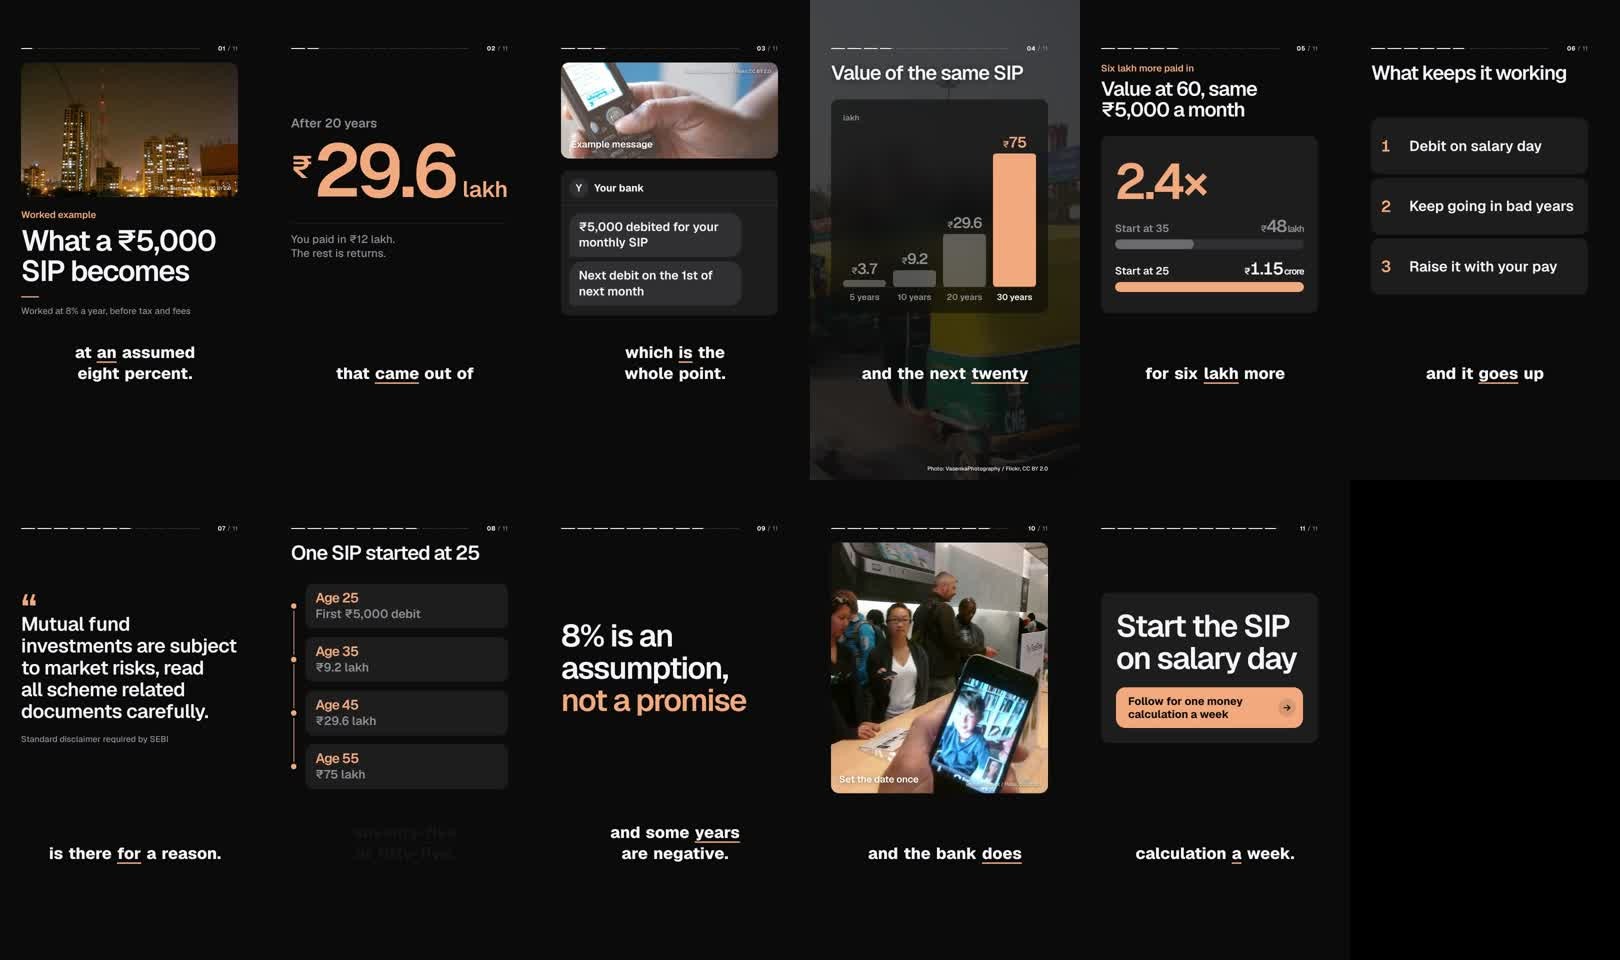
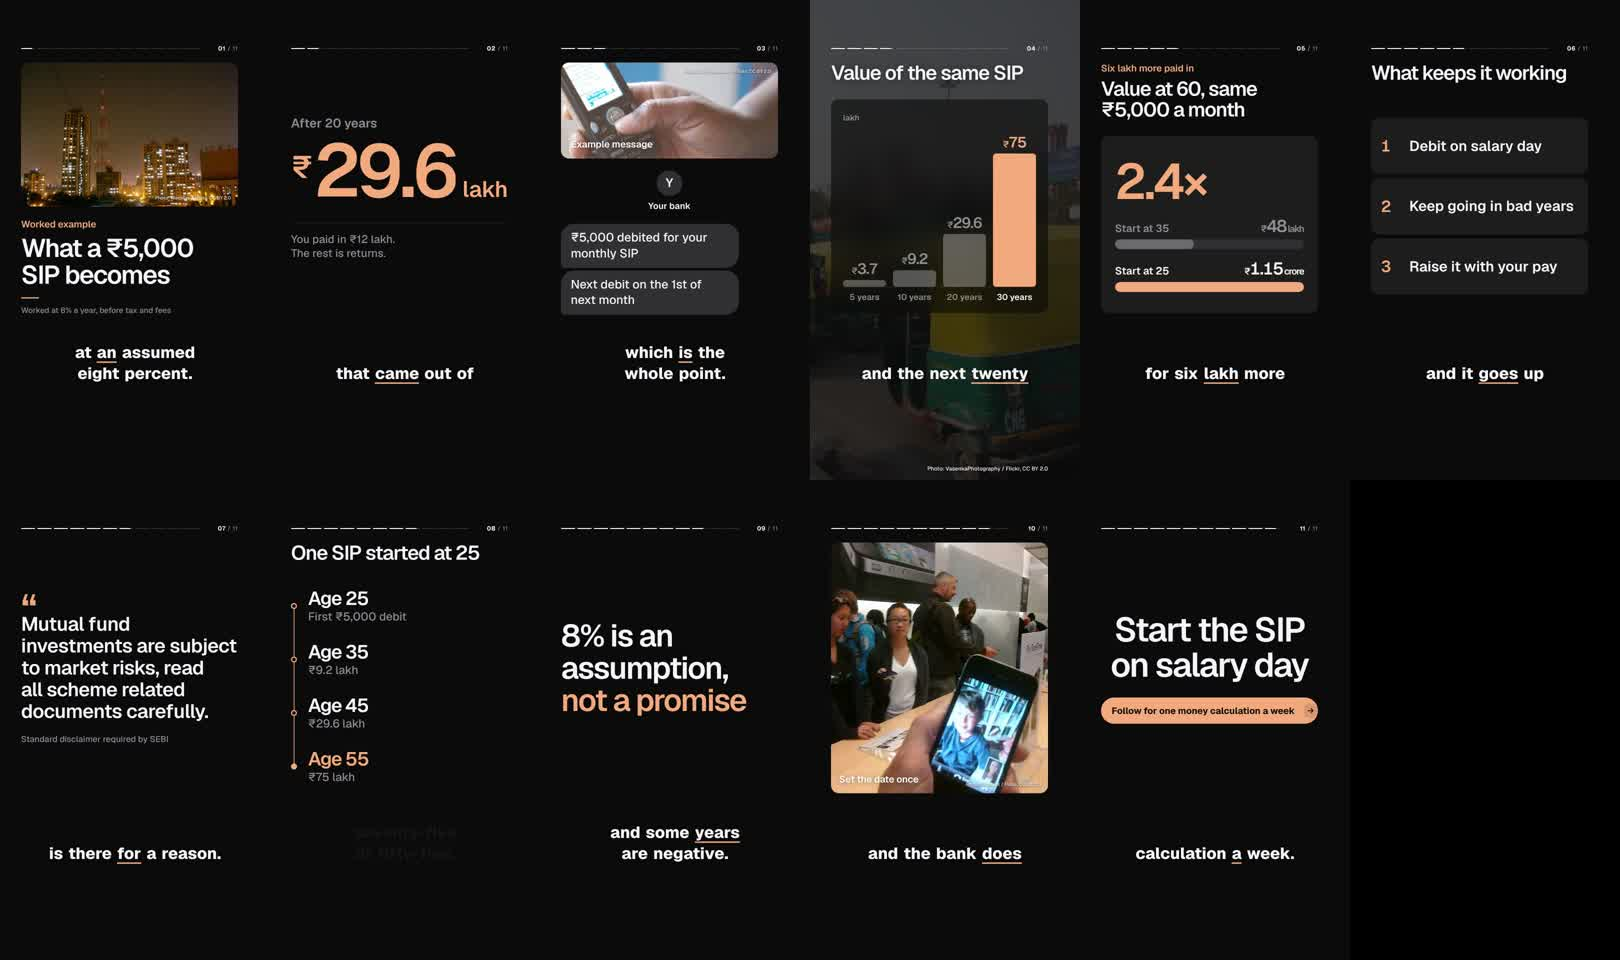
Let type carry the message, timeline and end scenes
- message: a chat screen straight on the background, the sender's initial
  and name centred above the bubbles; consecutive bubbles from one side sit
  closer together
- timeline: dates set as display type on a rail that draws through hollow
  dots; the last date and dot take the accent
- end: a centred finale with a larger title and a one-line call to action
- title photos get a little more height
- docs show the type-led scenes

Claude-Session: https://claude.ai/code/session_015iGsKUNTqUMX6rbhQzKvLn

diff --git a/skills/vid-studio/assets/scenes/engine.css b/skills/vid-studio/assets/scenes/engine.css
@@ -425,36 +425,39 @@
 .vid-stage.cards .scene-quote .quote-text { font-size: calc(var(--k) * var(--kw, 1) * var(--ts) * 78px); line-height: 1.12; }
 .vid-stage.cards .scene-quote .source { padding: 0; margin-top: calc(var(--k) * 44px); font-size: calc(var(--k) * var(--ts) * 34px); }
 
-/* timeline */
-.vid-stage.cards .scene-timeline .tl { max-height: calc(var(--n) * var(--k) * 250px); }
-.vid-stage.cards .scene-timeline .tl-item { gap: calc(var(--k) * 36px); padding: calc(var(--k) * 8px) 0; }
-.vid-stage.cards .scene-timeline .tl-text { flex: 1; padding: calc(var(--k) * 30px) calc(var(--k) * 40px); }
-.vid-stage.cards .scene-timeline .tl-dot { width: 22px; height: 22px; box-shadow: 0 0 0 8px var(--bg); }
-.vid-stage.cards .scene-timeline .tl-line { left: 9.5px; width: 3px; }
-.vid-stage.cards .scene-timeline .tl-date { font-size: calc(var(--k) * var(--ts) * 54px); margin-bottom: calc(var(--k) * 8px); }
-.vid-stage.cards .scene-timeline .tl-label { font-size: calc(var(--k) * var(--kw, 1) * var(--ts) * 48px); color: var(--muted); }
-.vid-stage.cards.ar-landscape .scene-timeline .tl-text { width: 100%; }
-.vid-stage.cards.ar-landscape .scene-timeline .tl-item { padding: 0; }
-.vid-stage.cards.ar-landscape .scene-timeline .tl-line { top: 9.5px; }
+/* timeline: dates set as display type on a rail that draws through them */
+.vid-stage.cards .scene-timeline .tl { max-height: calc(var(--n) * var(--k) * 260px); }
+.vid-stage.cards .scene-timeline .tl-item { gap: calc(var(--k) * 44px); }
+.vid-stage.cards .scene-timeline .tl-dot { width: 24px; height: 24px; background: var(--bg); box-shadow: inset 0 0 0 5px var(--accent); }
+.vid-stage.cards .scene-timeline .tl-item:last-child .tl-dot { background: var(--accent); }
+.vid-stage.cards .scene-timeline .tl-line { left: 10.5px; width: 3px; }
+.vid-stage.cards .scene-timeline .tl-date { font-size: calc(var(--k) * var(--ts) * 76px); color: var(--text); margin-bottom: calc(var(--k) * 6px); }
+.vid-stage.cards .scene-timeline .tl-item:last-child .tl-date { color: var(--accent); }
+.vid-stage.cards .scene-timeline .tl-label { font-size: calc(var(--k) * var(--kw, 1) * var(--ts) * 46px); font-weight: 500; color: var(--muted); }
+.vid-stage.cards.ar-landscape .scene-timeline .tl-line { top: 10.5px; }
 
 /* image placeholder */
 .vid-stage.cards .scene-image .img-card { border: 3px dashed var(--line-strong); background: none; }
 
-/* message: a chat thread on a tile */
-.vid-stage.cards .msg { padding: calc(var(--k) * 34px) calc(var(--k) * 34px) calc(var(--k) * 40px); gap: calc(var(--k) * 18px); }
-.vid-stage.cards .msg-who { display: flex; align-items: center; gap: .55em; font-size: calc(var(--k) * var(--ts) * 42px); letter-spacing: 0; text-transform: none; color: var(--text);
-  padding: 0 calc(var(--k) * 34px) calc(var(--k) * 30px); margin: 0 calc(var(--k) * -34px) calc(var(--k) * 10px); border-bottom: 2px solid var(--line); }
+/* message: a thread straight on the background, like a phone's chat screen: the sender centred at the top */
+.vid-stage.cards .msg { gap: calc(var(--k) * 16px); }
+.vid-stage.cards .msg-who { display: flex; flex-direction: column; align-items: center; gap: calc(var(--k) * 18px); font-size: calc(var(--k) * var(--ts) * 38px); font-weight: 600;
+  letter-spacing: 0; text-transform: none; color: var(--text); padding: 0; margin: 0 0 calc(var(--k) * 36px); border: 0; }
 .vid-stage .msg-who .avatar { display: none; }
-.vid-stage.cards .msg-who .avatar { display: grid; place-items: center; flex: none; width: 1.9em; height: 1.9em; border-radius: 50%; background: var(--knob); color: var(--text); font-size: 1em; font-weight: 600; }
-.vid-stage.cards .bubble { font-size: calc(var(--k) * var(--ts) * 50px); border-radius: 1.05em 1.05em 1.05em .32em; background: var(--knob); }
-.vid-stage.cards .bubble.out { border-radius: 1.05em 1.05em .32em 1.05em; background: var(--accent); }
+.vid-stage.cards .msg-who .avatar { display: grid; place-items: center; width: 2.9em; height: 2.9em; border-radius: 50%; background: var(--knob); color: var(--text); font-size: 1em; font-weight: 600; }
+.vid-stage.cards .msg-who .avatar { font-size: calc(var(--k) * var(--ts) * 52px); width: 2.1em; height: 2.1em; }
+.vid-stage.cards .bubble { font-size: calc(var(--k) * var(--ts) * 52px); max-width: 82%; padding: .5em .8em .56em; border-radius: 1.1em 1.1em 1.1em .3em; background: var(--knob); font-weight: 500; }
+.vid-stage.cards .bubble.out { border-radius: 1.1em 1.1em .3em 1.1em; background: var(--accent); }
+.vid-stage.cards .bubble + .bubble.in, .vid-stage.cards .bubble.out + .bubble.out { margin-top: calc(var(--k) * -6px); }
 .vid-stage .bubble-text { text-wrap: pretty; }
 
-/* end */
-.vid-stage.cards .end-card { padding: calc(var(--k) * 68px) calc(var(--k) * 60px) calc(var(--k) * 60px); }
-.vid-stage.cards .scene-end .end-title { margin-bottom: calc(var(--k) * 52px); }
+/* end: a centred finale, no tile */
 .vid-stage .cta .cta-ic { display: inline-flex; }
-.vid-stage.cards .scene-end .cta { border-radius: min(999px, calc(var(--radius) * 1.2)); padding: .66em .66em .66em 1.1em; gap: .9em; font-size: calc(var(--k) * var(--kw, 1) * var(--ts) * 44px); }
+.vid-stage.cards .end-card { display: flex; flex-direction: column; align-items: center; text-align: center; }
+.vid-stage.cards .scene-end .end-logo { justify-content: center; }
+.vid-stage.cards .scene-end .end-title { font-size: calc(var(--k) * var(--kw, 1) * var(--ts) * 136px); margin-bottom: calc(var(--k) * 60px); }
+.vid-stage.cards .scene-end .cta { align-self: center; border-radius: 999px; padding: .62em .62em .62em 1.15em; gap: .9em; font-size: calc(var(--k) * var(--kw, 1) * var(--ts) * 42px); text-align: left; }
+.vid-stage.cards .scene-end .cta > span:first-child { white-space: nowrap; }
 .vid-stage.cards .scene-end .cta .cta-ic { flex: none; width: 1.6em; height: 1.6em; border-radius: 50%; align-items: center; justify-content: center; background: rgba(0,0,0,.1); }
 
 /* captions */

diff --git a/skills/vid-studio/assets/scenes/engine.js b/skills/vid-studio/assets/scenes/engine.js
@@ -915,7 +915,7 @@
       var dot = el('div', 'tl-dot');
       var date = el('div', 'tl-date', rich(it.date)); tagLang(date, it.date);
       var lab = el('div', 'tl-label fit', rich(it.label)); tagLang(lab, it.label);
-      var txt = el('div', 'tl-text card'); txt.appendChild(date); txt.appendChild(lab);
+      var txt = el('div', 'tl-text'); txt.appendChild(date); txt.appendChild(lab);
       node.appendChild(dot); node.appendChild(txt); wrap.appendChild(node);
       return { node: node, dot: dot, date: date, label: lab, txt: txt };
     });
@@ -1004,7 +1004,7 @@
   // dots. Every bubble has its final size from the start, so nothing reflows while it plays.
   BUILD.message = function (sc) {
     var d = sc.data, st = el('div', 'stack');
-    var wrap = el('div', 'msg card');
+    var wrap = el('div', 'msg');
     var who = plain(d.title), head = null;
     if (who) {
       // the sender's initial in a round avatar, like the top of a chat (cards only)
@@ -1115,7 +1115,7 @@
       x.el.style.setProperty('--k', '1');
       fitWidths(x.el);
       var need0 = (head ? head.offsetHeight : 0) + (x.sc.type === 'image' ? 0 : st.scrollHeight);
-      var ch0 = Math.round(clamp(c.height - need0 - gap, H * (x.sc.type === 'title' ? 0.28 : 0.2), H * (x.sc.type === 'image' ? 0.62 : 0.4)));
+      var ch0 = Math.round(clamp(c.height - need0 - gap, H * (x.sc.type === 'title' ? 0.3 : 0.2), H * (x.sc.type === 'image' ? 0.62 : 0.4)));
       x.photo.el.style.cssText += ';left:' + c.left + 'px;top:' + c.top + 'px;width:' + c.width + 'px;height:' + ch0 + 'px';
       frame.style.top = (c.top + ch0 + gap) + 'px'; frame.style.height = Math.max(120, bottom - c.top - ch0 - gap) + 'px';
       return;
@@ -1179,7 +1179,7 @@
   }
 
   BUILD.end = function (sc, ctx) {
-    var d = sc.data, st = el('div', 'stack'), box = el('div', 'card end-card');
+    var d = sc.data, st = el('div', 'stack'), box = el('div', 'end-card');
     st.appendChild(box);
     var logoText = ctx.design.logo.text.trim();
     var lg = null;

diff --git a/skills/vid-studio/references/scenes.md b/skills/vid-studio/references/scenes.md
@@ -70,7 +70,7 @@ Visual: end | Follow for one money rule a day | Follow @explainedin90s
 
 Keep on-screen words few: titles under 6 words, labels under 4, list items under 6. The voiceover explains; the screen shows the one thing to remember.
 
-Every scene sits on one grid, and fills it. A thin progress line runs across the top, one rounded segment per beat, with a folio at its end (`03 / 08`). A `Text:` overlay (a small accent eyebrow; on a photo card it sits on the photo's corner) and a chart's title share a header row pinned under it, in the same place in every scene. Below it, each idea sits on one flat, rounded tile in the channel's look (`cards.style`: glass by default, solid, or flat for no tiles): a stat and its context on one tile, a chart on one tile, each list point and each timeline date on its own tile, two phrases in a compare on two tiles with a small arrow from the first to the second, a quote under a large opening mark, a message as a chat thread with the sender's initial, and the end card with its call to action. A stat, a punchline, a quote or the end card is centred in the space; charts, lists and timelines fill it. Captions sit in their own band, centred, with the spoken word highlighted, and the `Source:` line and photo credit are one line of small print on the bottom edge of the safe area. Holds are still, and headings keep one size across scenes, so write titles that fit in two lines rather than relying on the player to shrink them. `bars` with short labels (up to 12 characters, like years) draw columns; longer labels draw horizontal rows.
+Every scene sits on one grid, and fills it. A thin progress line runs across the top, one rounded segment per beat, with a folio at its end (`03 / 08`). A `Text:` overlay (a small accent eyebrow; on a photo card it sits on the photo's corner) and a chart's title share a header row pinned under it, in the same place in every scene. Below it, each idea sits on one flat, rounded tile in the channel's look (`cards.style`: glass by default, solid, or flat for no tiles): a stat and its context on one tile, a chart on one tile, each list point on its own tile, two phrases in a compare on two tiles with a small arrow from the first to the second. Some scenes need no tile: a stat's number is the hero of the frame, a quote is big type under a large opening mark, a timeline sets its dates as display type on a rail that draws through them (the last date in the accent), a message is a chat screen with the sender's initial and name centred above the bubbles, and the end card is a centred finale with its call to action. A stat, a punchline, a quote or the end card is centred in the space; charts, lists and timelines fill it. Captions sit in their own band, centred, with the spoken word highlighted, and the `Source:` line and photo credit are one line of small print on the bottom edge of the safe area. Holds are still, and headings keep one size across scenes, so write titles that fit in two lines rather than relying on the player to shrink them. `bars` with short labels (up to 12 characters, like years) draw columns; longer labels draw horizontal rows.
 
 `studio.py scenes` warns about what makes a video look or sound generated: the same headline on screen twice, more than two `text` scenes, bars without numbers, a compare mixing a number with a phrase, chart values with no unit, an unlabelled message, no photos in a video of 30 seconds or more, and in the voiceover the phrases, invented characters, fake anecdotes, reframes, fragment chains and flat rhythm in script-craft.md. Fix every warning.
 The examples above demonstrate syntax. Replace their figures and placeholder quote with evidence from the story's notes.

diff --git a/docs/rounded-tiles/README.md b/docs/rounded-tiles/README.md
@@ -18,18 +18,19 @@ Graphite, a new look: near-black, soft white, one warm accent, Geist throughout.
 
 ## What changed
 
-**One tile per idea.** Each idea gets one flat, rounded tile, one step lighter (or darker) than the background:
+**One tile per idea, and only where it helps.** Charts, list points and compare phrases sit on flat, rounded tiles, one step lighter (or darker) than the background. Scenes that read better as type on the background drop the tile: the stat, the quote, the timeline (dates as display type on a rail that draws through them), the message (a chat screen with the sender centred above the bubbles) and the end card (a centred finale).
+
+The tiles:
 
 - A chart sits on one tile.
-- Each list point and each timeline date gets its own tile.
+- Each list point gets its own tile.
 - Two phrases in a compare sit on two tiles, with a small arrow from the first to the second.
-- A quote is big type under a large opening mark, with no tile.
-- A message is a chat thread, with the sender's initial in a round avatar.
-- The end card has a solid call-to-action button.
 
 **Numbers are the hero.** A stat drops its tile, and the number is set as large as the frame allows. Its digits roll in like an odometer, with each column as wide as its final digit, so nothing shifts. A percentage up to 100 also fills a thin meter. A compare of two numbers leads with the difference between them (`2.4×`, `+38%`), with the two values as rows below on the same scale. A bar chart whose values share a unit ("lakh") shows it once, at the top.
 
 ![Hero numbers](assets/hero-numbers.jpg)
+
+![Message, timeline and end card](assets/type-scenes.jpg)
 
 **Labels are eyebrows.** `Text:` labels and kickers are small accent text in sentence case, not boxes. On a photo card the label sits on the photo's bottom-left corner, so the scene below keeps its full size.
 
